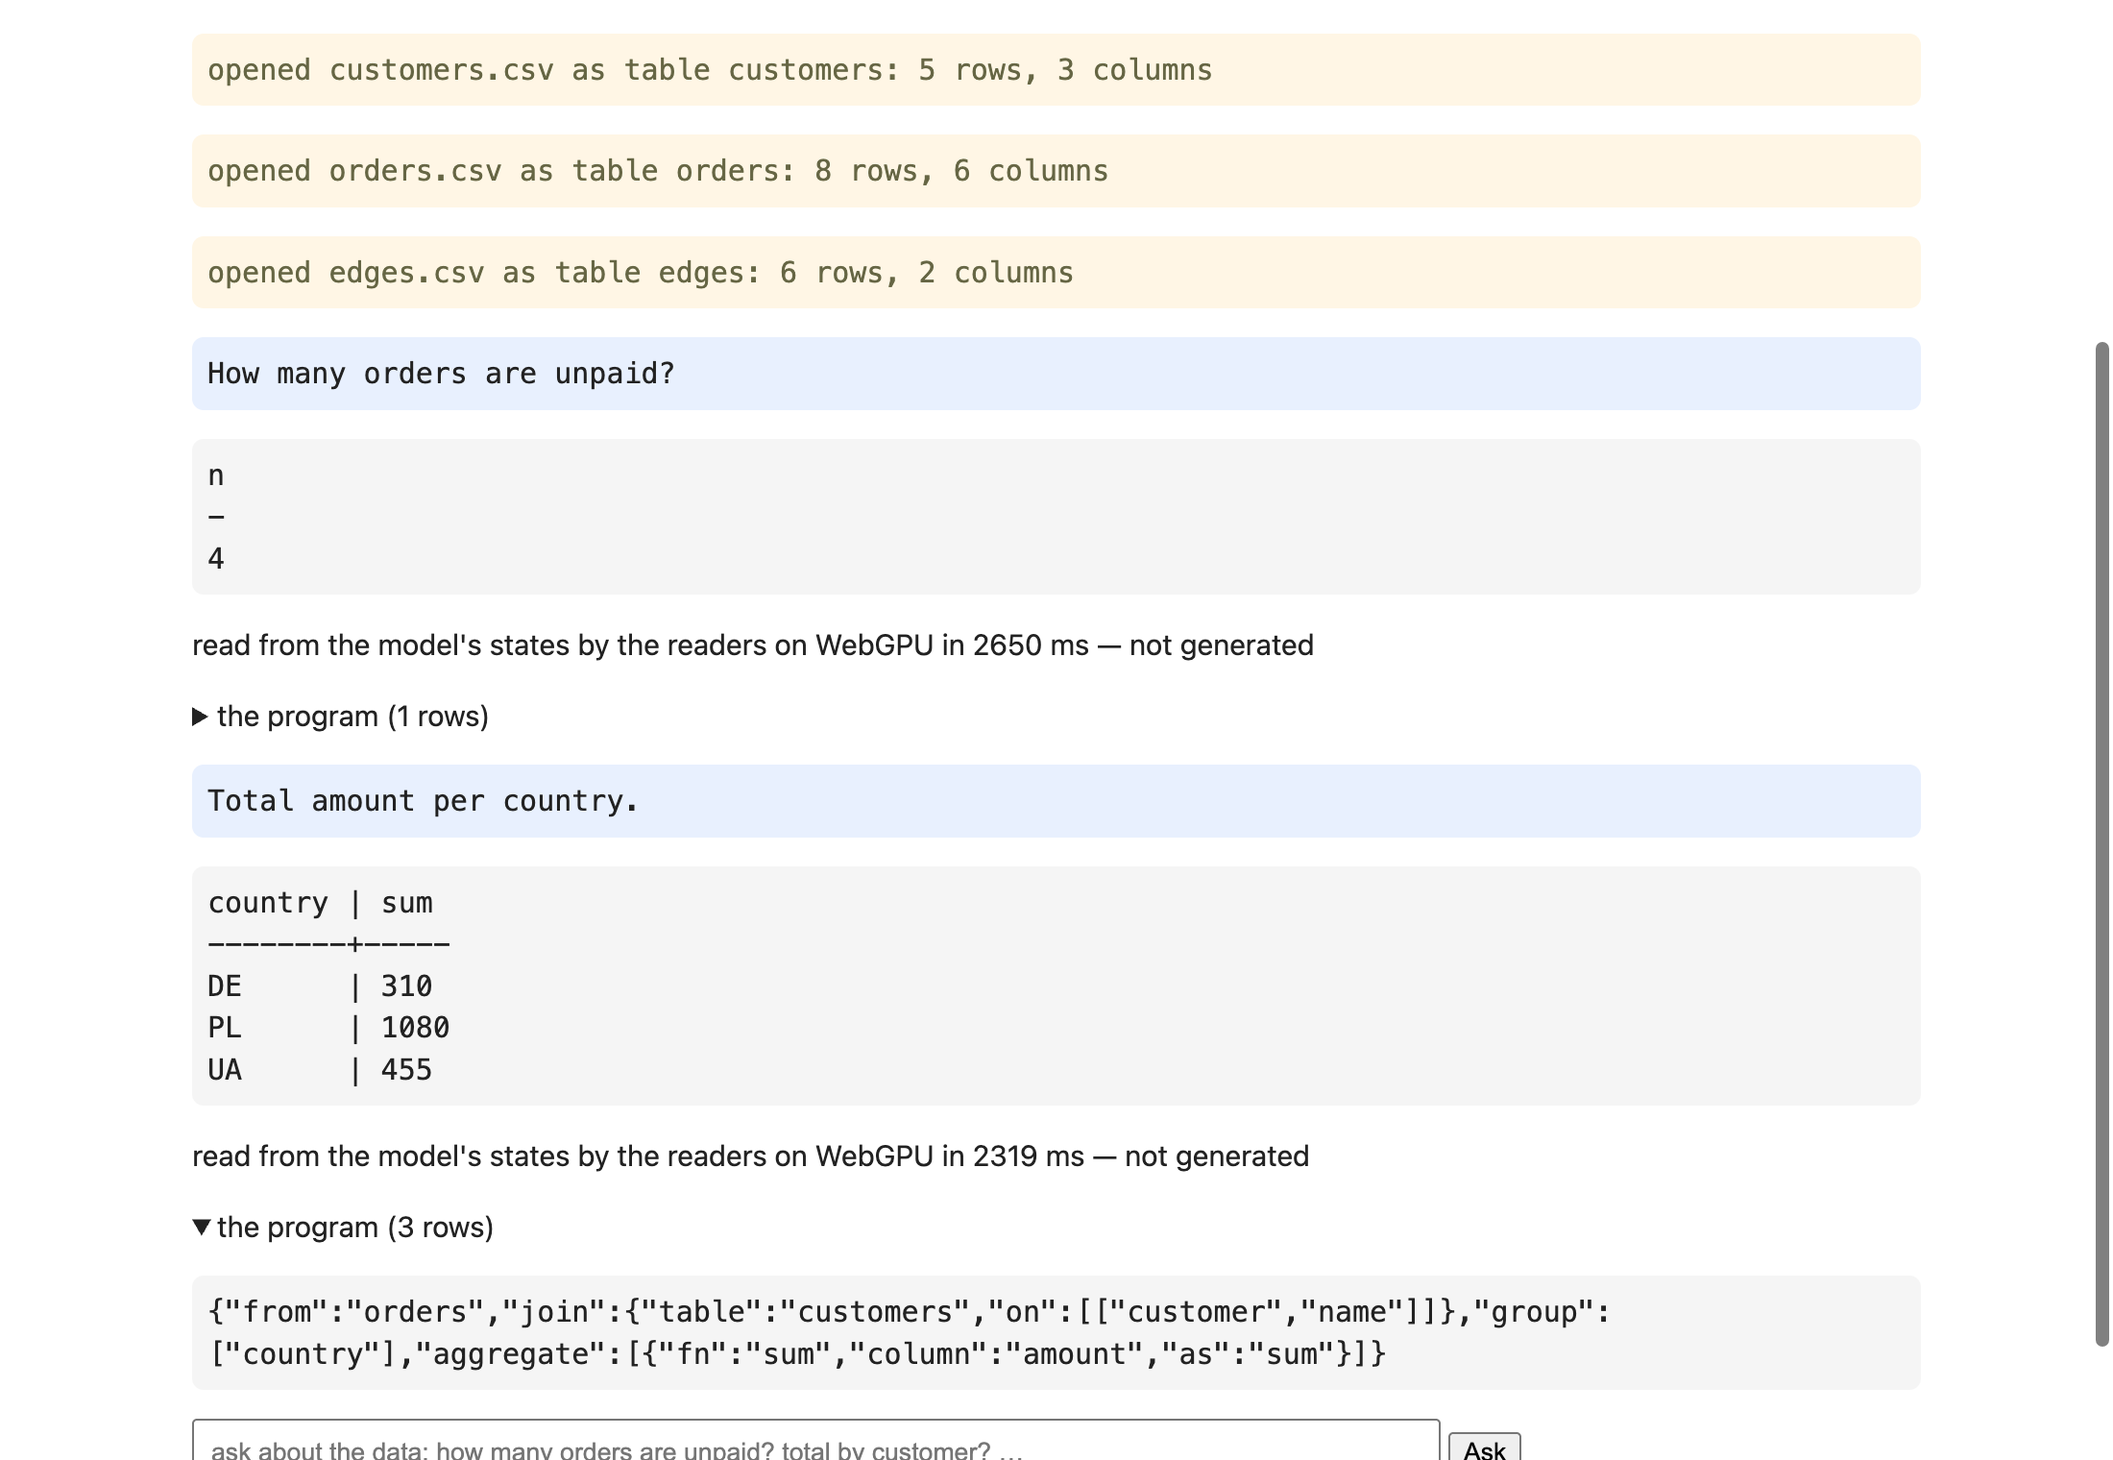
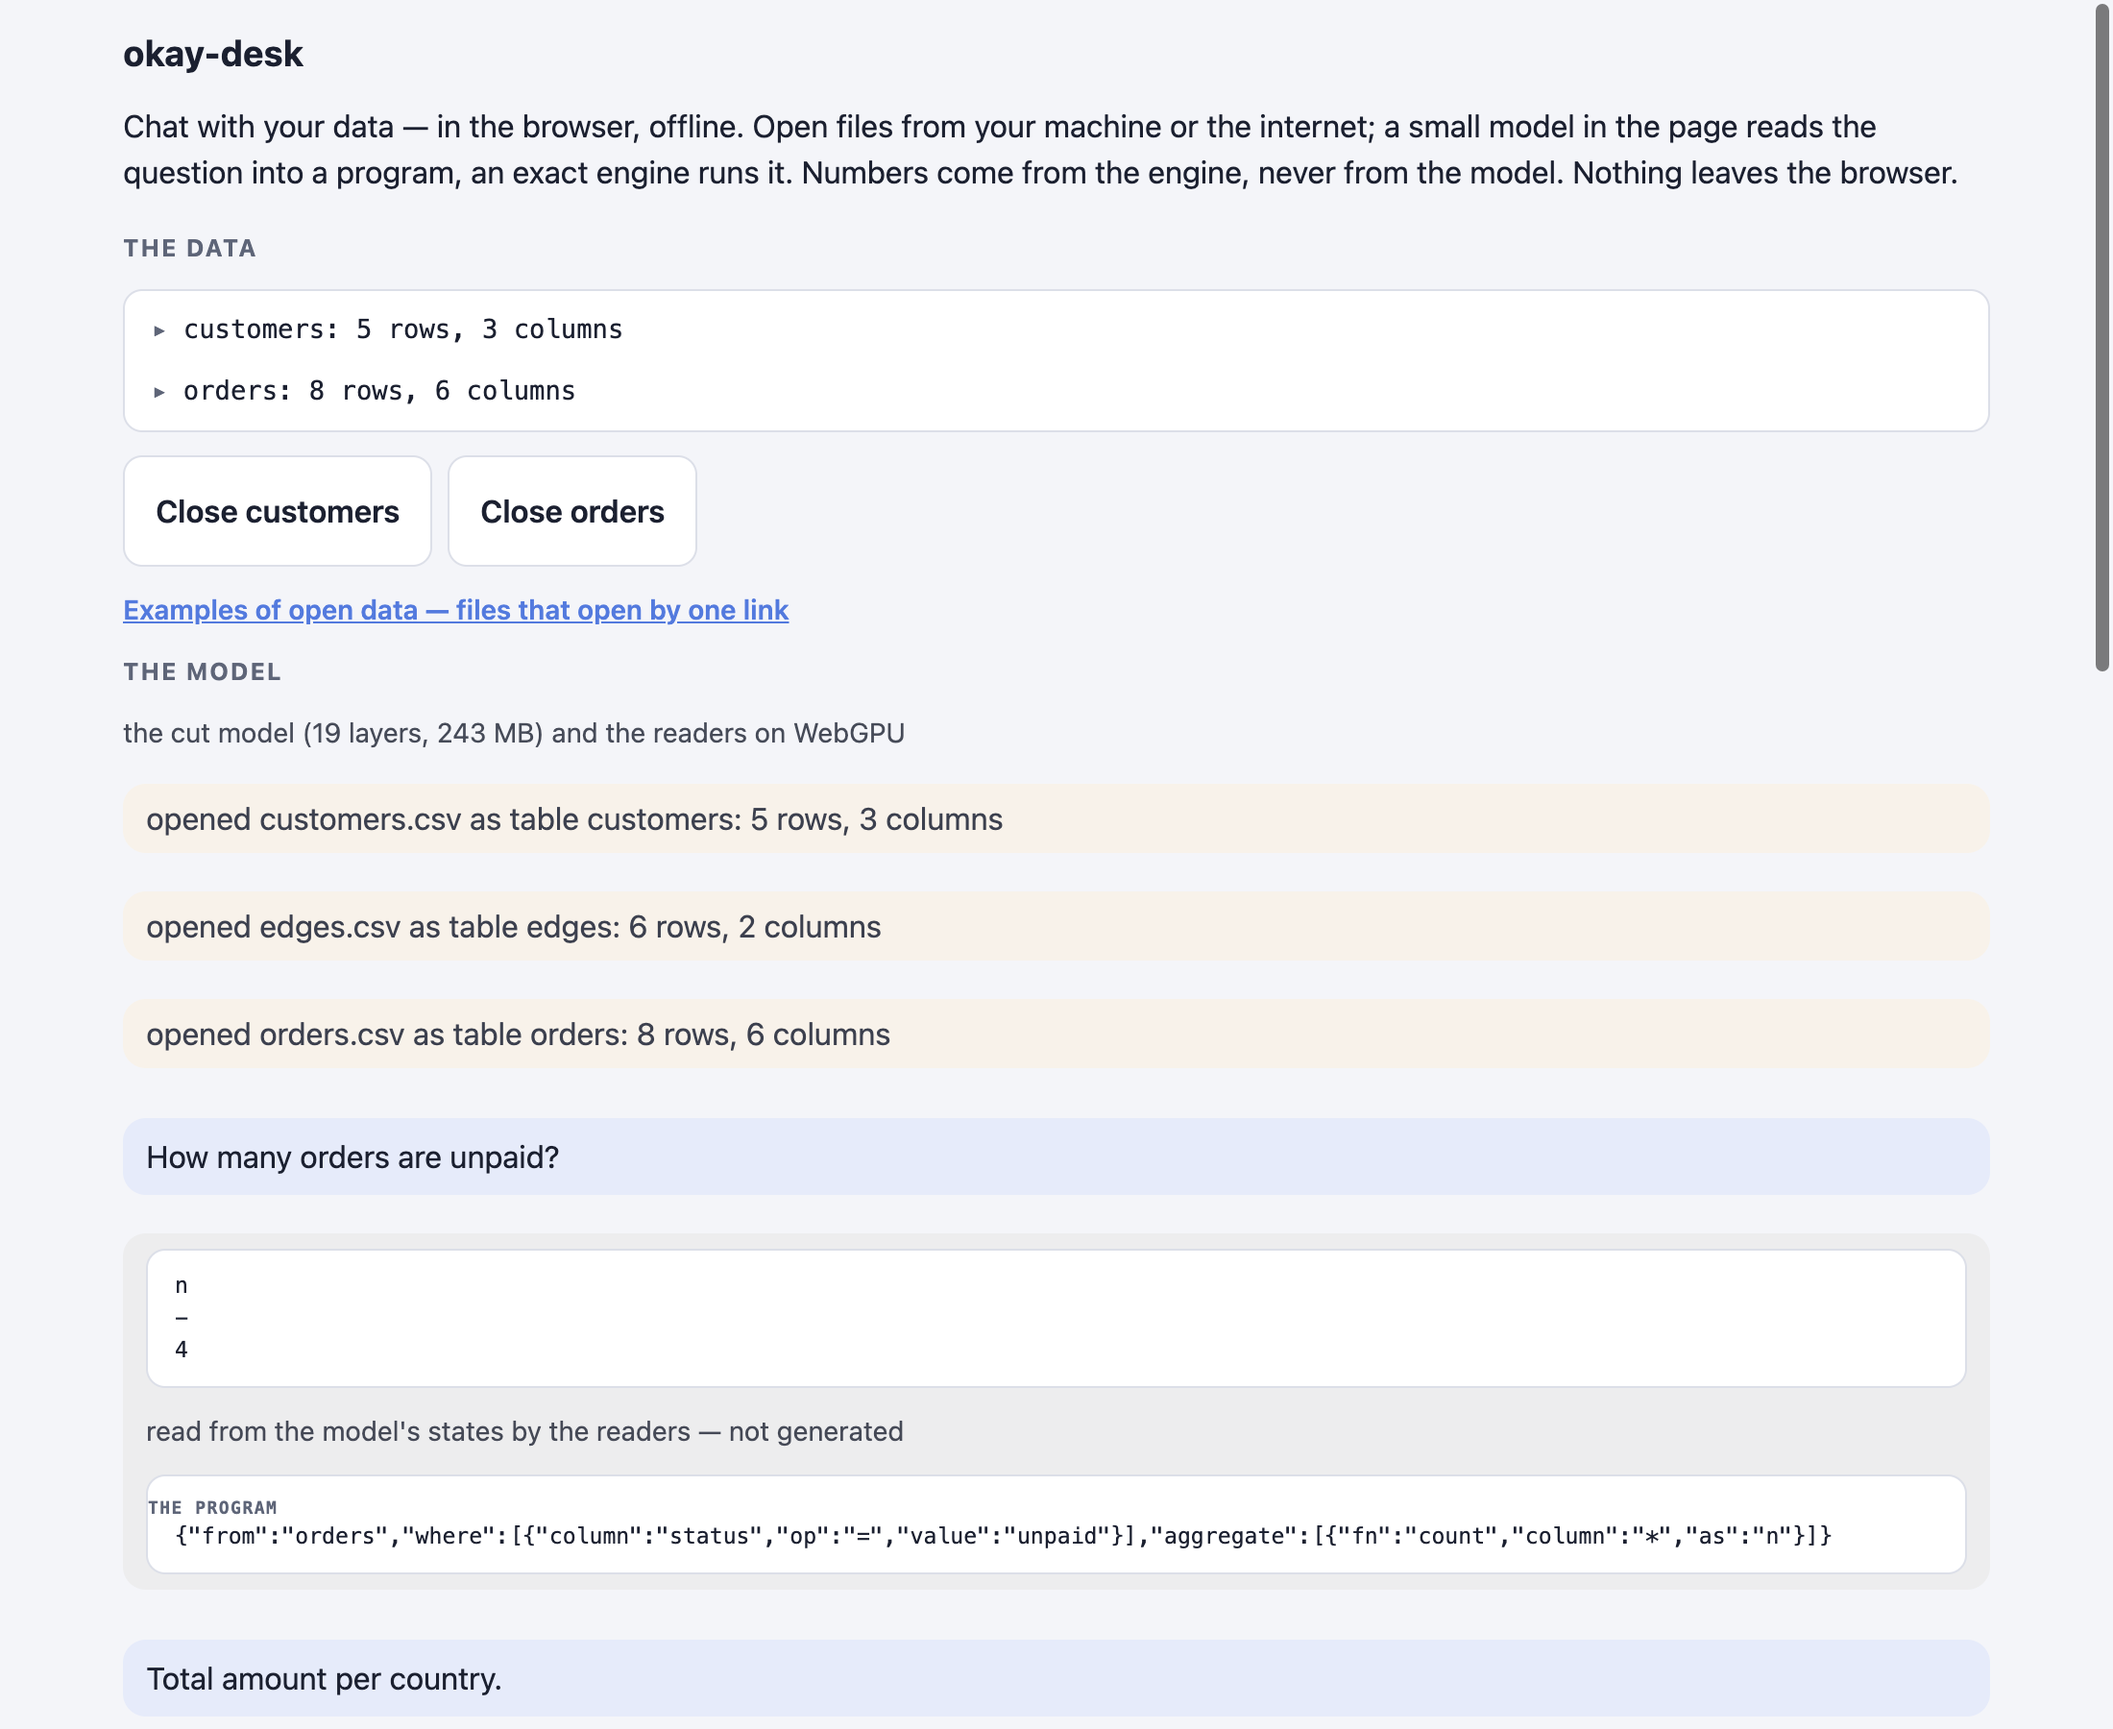
okay-desk: the page on okay-ui; the screenshot

diff --git a/index.html b/index.html
@@ -199,7 +199,7 @@
     <div class="card"><h3>A program over an effect</h3><p>The skill is a program over the effect <code>Read</code>: the JVM answers it in place, the browser by futures; the same code gives the same numbers on both.</p></div>
   </div>
   <h3 style="margin-top:28px">How it is built</h3>
-  <p class="sub">Scala 3 compiled to JavaScript by Scala.js, on <a href="https://github.com/okay-effects/okay-scala">okay-scala</a>, <a href="https://github.com/okay-effects/okay-llm">okay-llm</a> (the browser engine), <a href="https://github.com/okay-effects/okay-datalog">okay-datalog</a> and <a href="https://github.com/okay-effects/okay-inlay">okay-inlay</a>.</p>
+  <p class="sub">Scala 3 compiled to JavaScript by Scala.js. The page is an <a href="https://github.com/okay-effects/okay-ui">okay-ui</a> program — one screen shown again after every press, its effects answered by the browser or by a test script — on <a href="https://github.com/okay-effects/okay-scala">okay-scala</a>, <a href="https://github.com/okay-effects/okay-llm">okay-llm</a> (the browser engine), <a href="https://github.com/okay-effects/okay-datalog">okay-datalog</a> and <a href="https://github.com/okay-effects/okay-inlay">okay-inlay</a>.</p>
   <h3 class="app" id="okay-chat" style="margin-top:48px">Okay! Chat: a marketplace you talk to</h3>
   <p class="sub">Say in ordinary words what you offer or what you need, and the chat finds the other side, asks them for you and passes on the contacts once they agree. Ask it for vacancies by a keyword and a city, and it reads employers' own public job boards. In the browser and in Telegram, in four languages, on Cloudflare's free plan.</p>
   <p><a class="btn" href="https://okay-chat-edge.okay-effects.workers.dev/" target="_blank" rel="noopener">Open Okay! Chat</a>
